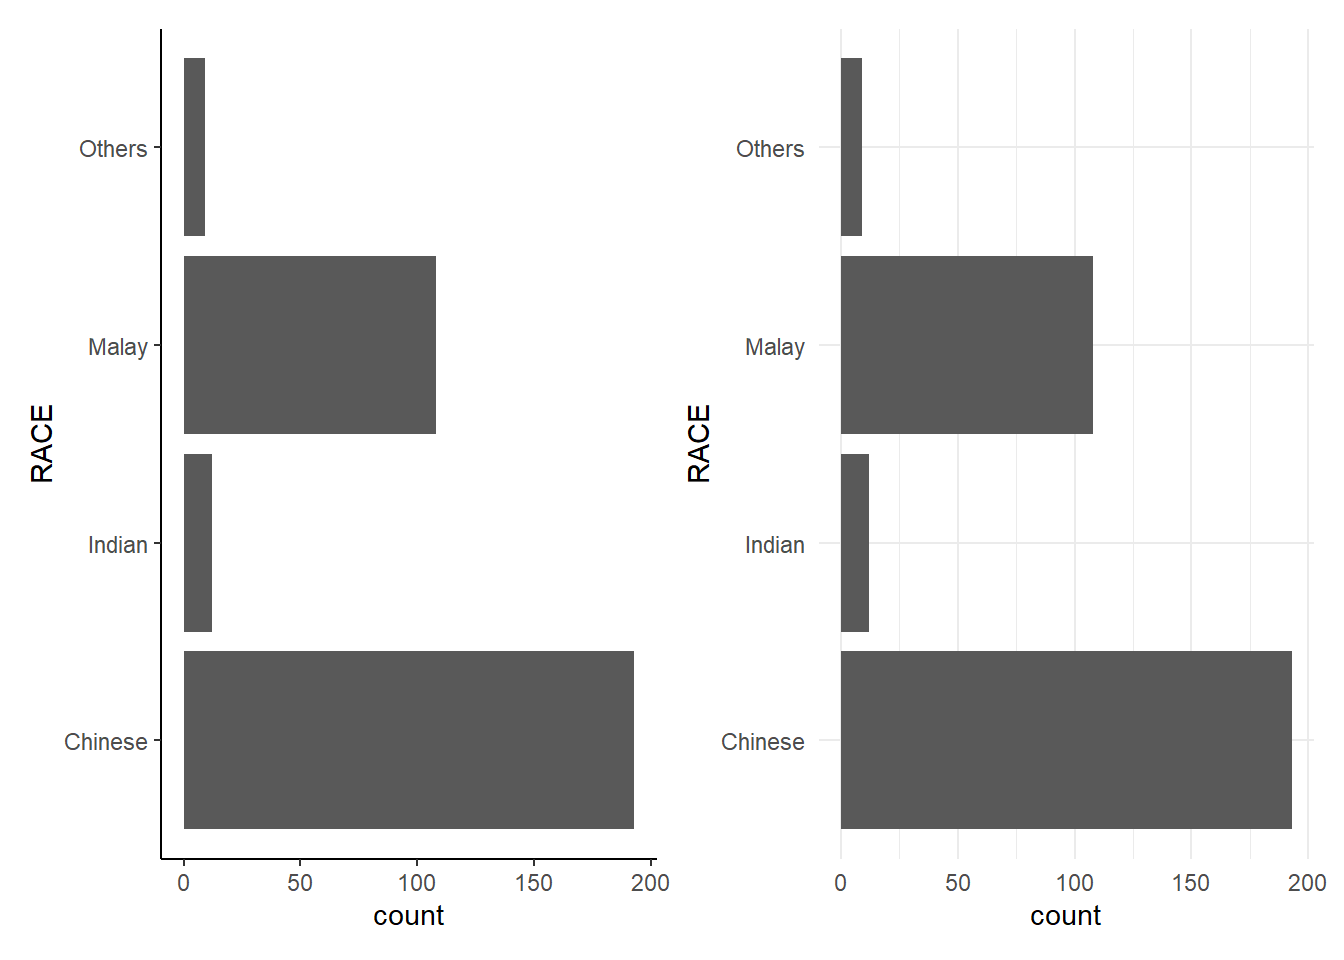
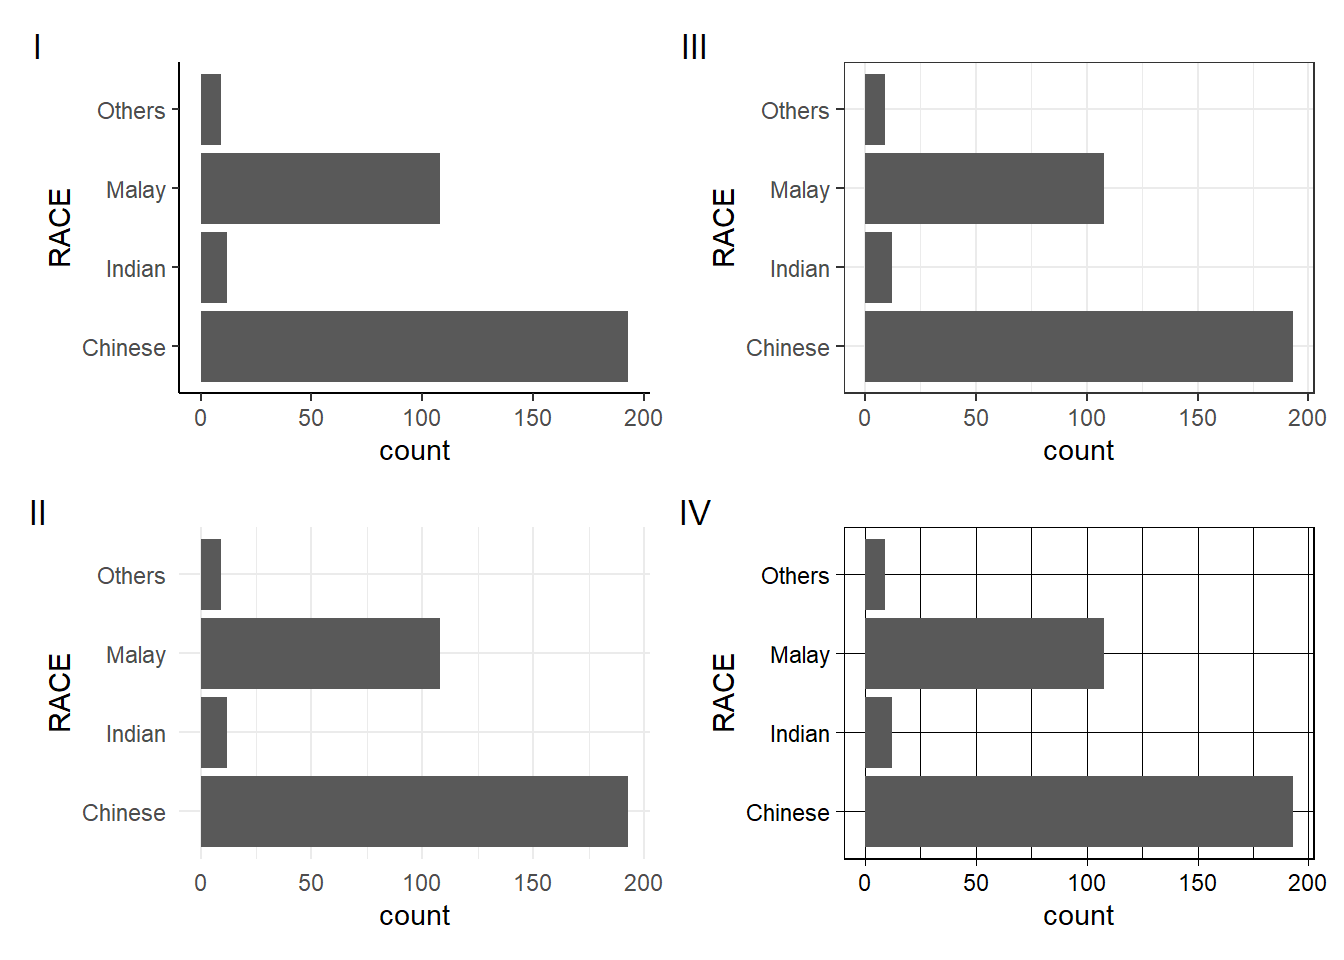
edit

diff --git a/_site/Hands-on_Ex/Hands-on_Ex01/Hands-on_Ex01.html b/_site/Hands-on_Ex/Hands-on_Ex01/Hands-on_Ex01.html
@@ -225,8 +225,12 @@ pre > code.sourceCode > span > a:first-child::before { text-decoration: underlin
   </ul></li>
   <li><a href="#using-themes" id="toc-using-themes" class="nav-link" data-scroll-target="#using-themes">Using Themes</a>
   <ul class="collapse">
-  <li><a href="#default-vs-grey-theme" id="toc-default-vs-grey-theme" class="nav-link" data-scroll-target="#default-vs-grey-theme">Default vs Grey Theme</a></li>
-  <li><a href="#other-themes" id="toc-other-themes" class="nav-link" data-scroll-target="#other-themes">Other Themes</a></li>
+  <li><a href="#default-i-vs-gray-ii-vs-grey-iii-theme" id="toc-default-i-vs-gray-ii-vs-grey-iii-theme" class="nav-link" data-scroll-target="#default-i-vs-gray-ii-vs-grey-iii-theme">Default (I) vs Gray (II) vs Grey (III) Theme</a></li>
+  <li><a href="#other-themes" id="toc-other-themes" class="nav-link" data-scroll-target="#other-themes">Other Themes</a>
+  <ul class="collapse">
+  <li><a href="#classic-i-vs-minimal-ii-vs-bw-iii-vs-linedraw-iv" id="toc-classic-i-vs-minimal-ii-vs-bw-iii-vs-linedraw-iv" class="nav-link" data-scroll-target="#classic-i-vs-minimal-ii-vs-bw-iii-vs-linedraw-iv">Classic (I) vs Minimal (II) vs BW (III) vs Linedraw (IV)</a></li>
+  <li><a href="#light-i-vs-dark-ii-vs-void-iii-vs-test-iv" id="toc-light-i-vs-dark-ii-vs-void-iii-vs-test-iv" class="nav-link" data-scroll-target="#light-i-vs-dark-ii-vs-void-iii-vs-test-iv">Light (I) vs Dark (II) vs Void (III) vs Test (IV)</a></li>
+  </ul></li>
   </ul></li>
   </ul>
 </nav>
@@ -670,6 +674,7 @@ dbl (3): ENGLISH, MATHS, SCIENCE
 </div>
 </div>
 <p>facet_grid() forms a matrix of panels defined by row and column facetting variables. It is most useful when you have two discrete variables, and all combinations of the variables exist in the data.</p>
+<p>It is also ideal for displaying sequential variables like the performance of different classes so facet_grid() is better than facet_wrap() for this case.</p>
 </section>
 </section>
 </section>
@@ -737,9 +742,9 @@ dbl (3): ENGLISH, MATHS, SCIENCE
 </section>
 <section id="using-themes" class="level1">
 <h1>Using Themes</h1>
-<p>Themes can make the plots more visually appealing.</p>
-<section id="default-vs-grey-theme" class="level2">
-<h2 class="anchored" data-anchor-id="default-vs-grey-theme">Default vs Grey Theme</h2>
+<p>Themes can make the plots more visually appealing. The available themes are: theme_grey() theme_gray() theme_bw() theme_linedraw() theme_light() theme_dark() theme_minimal() theme_classic() theme_void() theme_test()</p>
+<section id="default-i-vs-gray-ii-vs-grey-iii-theme" class="level2">
+<h2 class="anchored" data-anchor-id="default-i-vs-gray-ii-vs-grey-iii-theme">Default (I) vs Gray (II) vs Grey (III) Theme</h2>
 <div class="cell">
 <div class="sourceCode cell-code" id="cb30"><pre class="sourceCode r code-with-copy"><code class="sourceCode r"><span id="cb30-1"><a href="#cb30-1" aria-hidden="true" tabindex="-1"></a>t1 <span class="ot">&lt;-</span> <span class="fu">ggplot</span>(<span class="at">data=</span>exam_data, </span>
 <span id="cb30-2"><a href="#cb30-2" aria-hidden="true" tabindex="-1"></a>       <span class="fu">aes</span>(<span class="at">x=</span>RACE)) <span class="sc">+</span></span>
@@ -752,7 +757,14 @@ dbl (3): ENGLISH, MATHS, SCIENCE
 <span id="cb30-9"><a href="#cb30-9" aria-hidden="true" tabindex="-1"></a>  <span class="fu">coord_flip</span>() <span class="sc">+</span></span>
 <span id="cb30-10"><a href="#cb30-10" aria-hidden="true" tabindex="-1"></a>  <span class="fu">theme_gray</span>()</span>
 <span id="cb30-11"><a href="#cb30-11" aria-hidden="true" tabindex="-1"></a></span>
-<span id="cb30-12"><a href="#cb30-12" aria-hidden="true" tabindex="-1"></a>t1 <span class="sc">+</span> t2</span></code><button title="Copy to Clipboard" class="code-copy-button"><i class="bi"></i></button></pre></div>
+<span id="cb30-12"><a href="#cb30-12" aria-hidden="true" tabindex="-1"></a>t3 <span class="ot">&lt;-</span> <span class="fu">ggplot</span>(<span class="at">data=</span>exam_data, </span>
+<span id="cb30-13"><a href="#cb30-13" aria-hidden="true" tabindex="-1"></a>       <span class="fu">aes</span>(<span class="at">x=</span>RACE)) <span class="sc">+</span></span>
+<span id="cb30-14"><a href="#cb30-14" aria-hidden="true" tabindex="-1"></a>  <span class="fu">geom_bar</span>() <span class="sc">+</span></span>
+<span id="cb30-15"><a href="#cb30-15" aria-hidden="true" tabindex="-1"></a>  <span class="fu">coord_flip</span>() <span class="sc">+</span></span>
+<span id="cb30-16"><a href="#cb30-16" aria-hidden="true" tabindex="-1"></a>  <span class="fu">theme_grey</span>()</span>
+<span id="cb30-17"><a href="#cb30-17" aria-hidden="true" tabindex="-1"></a></span>
+<span id="cb30-18"><a href="#cb30-18" aria-hidden="true" tabindex="-1"></a>(t1 <span class="sc">|</span> (t2 <span class="sc">/</span> t3)) <span class="sc">+</span></span>
+<span id="cb30-19"><a href="#cb30-19" aria-hidden="true" tabindex="-1"></a>  <span class="fu">plot_annotation</span>(<span class="at">tag_levels =</span> <span class="st">'I'</span>)</span></code><button title="Copy to Clipboard" class="code-copy-button"><i class="bi"></i></button></pre></div>
 <div class="cell-output-display">
 <div>
 <figure class="figure">
@@ -764,20 +776,35 @@ dbl (3): ENGLISH, MATHS, SCIENCE
 </section>
 <section id="other-themes" class="level2">
 <h2 class="anchored" data-anchor-id="other-themes">Other Themes</h2>
+<section id="classic-i-vs-minimal-ii-vs-bw-iii-vs-linedraw-iv" class="level3">
+<h3 class="anchored" data-anchor-id="classic-i-vs-minimal-ii-vs-bw-iii-vs-linedraw-iv">Classic (I) vs Minimal (II) vs BW (III) vs Linedraw (IV)</h3>
 <div class="cell">
-<div class="sourceCode cell-code" id="cb31"><pre class="sourceCode r code-with-copy"><code class="sourceCode r"><span id="cb31-1"><a href="#cb31-1" aria-hidden="true" tabindex="-1"></a>t3 <span class="ot">&lt;-</span> <span class="fu">ggplot</span>(<span class="at">data=</span>exam_data, </span>
+<div class="sourceCode cell-code" id="cb31"><pre class="sourceCode r code-with-copy"><code class="sourceCode r"><span id="cb31-1"><a href="#cb31-1" aria-hidden="true" tabindex="-1"></a>t4 <span class="ot">&lt;-</span> <span class="fu">ggplot</span>(<span class="at">data=</span>exam_data, </span>
 <span id="cb31-2"><a href="#cb31-2" aria-hidden="true" tabindex="-1"></a>       <span class="fu">aes</span>(<span class="at">x=</span>RACE)) <span class="sc">+</span></span>
 <span id="cb31-3"><a href="#cb31-3" aria-hidden="true" tabindex="-1"></a>  <span class="fu">geom_bar</span>() <span class="sc">+</span></span>
 <span id="cb31-4"><a href="#cb31-4" aria-hidden="true" tabindex="-1"></a>  <span class="fu">coord_flip</span>() <span class="sc">+</span></span>
 <span id="cb31-5"><a href="#cb31-5" aria-hidden="true" tabindex="-1"></a>  <span class="fu">theme_classic</span>()</span>
 <span id="cb31-6"><a href="#cb31-6" aria-hidden="true" tabindex="-1"></a></span>
-<span id="cb31-7"><a href="#cb31-7" aria-hidden="true" tabindex="-1"></a>t4 <span class="ot">&lt;-</span> <span class="fu">ggplot</span>(<span class="at">data=</span>exam_data, </span>
+<span id="cb31-7"><a href="#cb31-7" aria-hidden="true" tabindex="-1"></a>t5 <span class="ot">&lt;-</span> <span class="fu">ggplot</span>(<span class="at">data=</span>exam_data, </span>
 <span id="cb31-8"><a href="#cb31-8" aria-hidden="true" tabindex="-1"></a>       <span class="fu">aes</span>(<span class="at">x=</span>RACE)) <span class="sc">+</span></span>
 <span id="cb31-9"><a href="#cb31-9" aria-hidden="true" tabindex="-1"></a>  <span class="fu">geom_bar</span>() <span class="sc">+</span></span>
 <span id="cb31-10"><a href="#cb31-10" aria-hidden="true" tabindex="-1"></a>  <span class="fu">coord_flip</span>() <span class="sc">+</span></span>
 <span id="cb31-11"><a href="#cb31-11" aria-hidden="true" tabindex="-1"></a>  <span class="fu">theme_minimal</span>()</span>
 <span id="cb31-12"><a href="#cb31-12" aria-hidden="true" tabindex="-1"></a></span>
-<span id="cb31-13"><a href="#cb31-13" aria-hidden="true" tabindex="-1"></a>t3 <span class="sc">+</span> t4</span></code><button title="Copy to Clipboard" class="code-copy-button"><i class="bi"></i></button></pre></div>
+<span id="cb31-13"><a href="#cb31-13" aria-hidden="true" tabindex="-1"></a>t6 <span class="ot">&lt;-</span> <span class="fu">ggplot</span>(<span class="at">data=</span>exam_data, </span>
+<span id="cb31-14"><a href="#cb31-14" aria-hidden="true" tabindex="-1"></a>       <span class="fu">aes</span>(<span class="at">x=</span>RACE)) <span class="sc">+</span></span>
+<span id="cb31-15"><a href="#cb31-15" aria-hidden="true" tabindex="-1"></a>  <span class="fu">geom_bar</span>() <span class="sc">+</span></span>
+<span id="cb31-16"><a href="#cb31-16" aria-hidden="true" tabindex="-1"></a>  <span class="fu">coord_flip</span>() <span class="sc">+</span></span>
+<span id="cb31-17"><a href="#cb31-17" aria-hidden="true" tabindex="-1"></a>  <span class="fu">theme_bw</span>()</span>
+<span id="cb31-18"><a href="#cb31-18" aria-hidden="true" tabindex="-1"></a></span>
+<span id="cb31-19"><a href="#cb31-19" aria-hidden="true" tabindex="-1"></a>t7 <span class="ot">&lt;-</span> <span class="fu">ggplot</span>(<span class="at">data=</span>exam_data, </span>
+<span id="cb31-20"><a href="#cb31-20" aria-hidden="true" tabindex="-1"></a>       <span class="fu">aes</span>(<span class="at">x=</span>RACE)) <span class="sc">+</span></span>
+<span id="cb31-21"><a href="#cb31-21" aria-hidden="true" tabindex="-1"></a>  <span class="fu">geom_bar</span>() <span class="sc">+</span></span>
+<span id="cb31-22"><a href="#cb31-22" aria-hidden="true" tabindex="-1"></a>  <span class="fu">coord_flip</span>() <span class="sc">+</span></span>
+<span id="cb31-23"><a href="#cb31-23" aria-hidden="true" tabindex="-1"></a>  <span class="fu">theme_linedraw</span>()</span>
+<span id="cb31-24"><a href="#cb31-24" aria-hidden="true" tabindex="-1"></a></span>
+<span id="cb31-25"><a href="#cb31-25" aria-hidden="true" tabindex="-1"></a>((t4 <span class="sc">/</span> t5) <span class="sc">|</span> (t6 <span class="sc">/</span> t7)) <span class="sc">+</span></span>
+<span id="cb31-26"><a href="#cb31-26" aria-hidden="true" tabindex="-1"></a>  <span class="fu">plot_annotation</span>(<span class="at">tag_levels =</span> <span class="st">'I'</span>)</span></code><button title="Copy to Clipboard" class="code-copy-button"><i class="bi"></i></button></pre></div>
 <div class="cell-output-display">
 <div>
 <figure class="figure">
@@ -786,8 +813,47 @@ dbl (3): ENGLISH, MATHS, SCIENCE
 </div>
 </div>
 </div>
+</section>
+<section id="light-i-vs-dark-ii-vs-void-iii-vs-test-iv" class="level3">
+<h3 class="anchored" data-anchor-id="light-i-vs-dark-ii-vs-void-iii-vs-test-iv">Light (I) vs Dark (II) vs Void (III) vs Test (IV)</h3>
+<div class="cell">
+<div class="sourceCode cell-code" id="cb32"><pre class="sourceCode r code-with-copy"><code class="sourceCode r"><span id="cb32-1"><a href="#cb32-1" aria-hidden="true" tabindex="-1"></a>t8 <span class="ot">&lt;-</span> <span class="fu">ggplot</span>(<span class="at">data=</span>exam_data, </span>
+<span id="cb32-2"><a href="#cb32-2" aria-hidden="true" tabindex="-1"></a>       <span class="fu">aes</span>(<span class="at">x=</span>RACE)) <span class="sc">+</span></span>
+<span id="cb32-3"><a href="#cb32-3" aria-hidden="true" tabindex="-1"></a>  <span class="fu">geom_bar</span>() <span class="sc">+</span></span>
+<span id="cb32-4"><a href="#cb32-4" aria-hidden="true" tabindex="-1"></a>  <span class="fu">coord_flip</span>() <span class="sc">+</span></span>
+<span id="cb32-5"><a href="#cb32-5" aria-hidden="true" tabindex="-1"></a>  <span class="fu">theme_light</span>()</span>
+<span id="cb32-6"><a href="#cb32-6" aria-hidden="true" tabindex="-1"></a></span>
+<span id="cb32-7"><a href="#cb32-7" aria-hidden="true" tabindex="-1"></a>t9 <span class="ot">&lt;-</span> <span class="fu">ggplot</span>(<span class="at">data=</span>exam_data, </span>
+<span id="cb32-8"><a href="#cb32-8" aria-hidden="true" tabindex="-1"></a>       <span class="fu">aes</span>(<span class="at">x=</span>RACE)) <span class="sc">+</span></span>
+<span id="cb32-9"><a href="#cb32-9" aria-hidden="true" tabindex="-1"></a>  <span class="fu">geom_bar</span>() <span class="sc">+</span></span>
+<span id="cb32-10"><a href="#cb32-10" aria-hidden="true" tabindex="-1"></a>  <span class="fu">coord_flip</span>() <span class="sc">+</span></span>
+<span id="cb32-11"><a href="#cb32-11" aria-hidden="true" tabindex="-1"></a>  <span class="fu">theme_dark</span>()</span>
+<span id="cb32-12"><a href="#cb32-12" aria-hidden="true" tabindex="-1"></a></span>
+<span id="cb32-13"><a href="#cb32-13" aria-hidden="true" tabindex="-1"></a>t10 <span class="ot">&lt;-</span> <span class="fu">ggplot</span>(<span class="at">data=</span>exam_data, </span>
+<span id="cb32-14"><a href="#cb32-14" aria-hidden="true" tabindex="-1"></a>       <span class="fu">aes</span>(<span class="at">x=</span>RACE)) <span class="sc">+</span></span>
+<span id="cb32-15"><a href="#cb32-15" aria-hidden="true" tabindex="-1"></a>  <span class="fu">geom_bar</span>() <span class="sc">+</span></span>
+<span id="cb32-16"><a href="#cb32-16" aria-hidden="true" tabindex="-1"></a>  <span class="fu">coord_flip</span>() <span class="sc">+</span></span>
+<span id="cb32-17"><a href="#cb32-17" aria-hidden="true" tabindex="-1"></a>  <span class="fu">theme_void</span>()</span>
+<span id="cb32-18"><a href="#cb32-18" aria-hidden="true" tabindex="-1"></a></span>
+<span id="cb32-19"><a href="#cb32-19" aria-hidden="true" tabindex="-1"></a>t11 <span class="ot">&lt;-</span> <span class="fu">ggplot</span>(<span class="at">data=</span>exam_data, </span>
+<span id="cb32-20"><a href="#cb32-20" aria-hidden="true" tabindex="-1"></a>       <span class="fu">aes</span>(<span class="at">x=</span>RACE)) <span class="sc">+</span></span>
+<span id="cb32-21"><a href="#cb32-21" aria-hidden="true" tabindex="-1"></a>  <span class="fu">geom_bar</span>() <span class="sc">+</span></span>
+<span id="cb32-22"><a href="#cb32-22" aria-hidden="true" tabindex="-1"></a>  <span class="fu">coord_flip</span>() <span class="sc">+</span></span>
+<span id="cb32-23"><a href="#cb32-23" aria-hidden="true" tabindex="-1"></a>  <span class="fu">theme_test</span>()</span>
+<span id="cb32-24"><a href="#cb32-24" aria-hidden="true" tabindex="-1"></a></span>
+<span id="cb32-25"><a href="#cb32-25" aria-hidden="true" tabindex="-1"></a>((t8 <span class="sc">/</span> t9) <span class="sc">|</span> (t10 <span class="sc">/</span> t11)) <span class="sc">+</span></span>
+<span id="cb32-26"><a href="#cb32-26" aria-hidden="true" tabindex="-1"></a>  <span class="fu">plot_annotation</span>(<span class="at">tag_levels =</span> <span class="st">'I'</span>)</span></code><button title="Copy to Clipboard" class="code-copy-button"><i class="bi"></i></button></pre></div>
+<div class="cell-output-display">
+<div>
+<figure class="figure">
+<p><img src="Hands-on_Ex01_files/figure-html/unnamed-chunk-26-1.png" class="img-fluid figure-img" width="672"></p>
+</figure>
+</div>
+</div>
+</div>
 
 
+</section>
 </section>
 </section>
 
